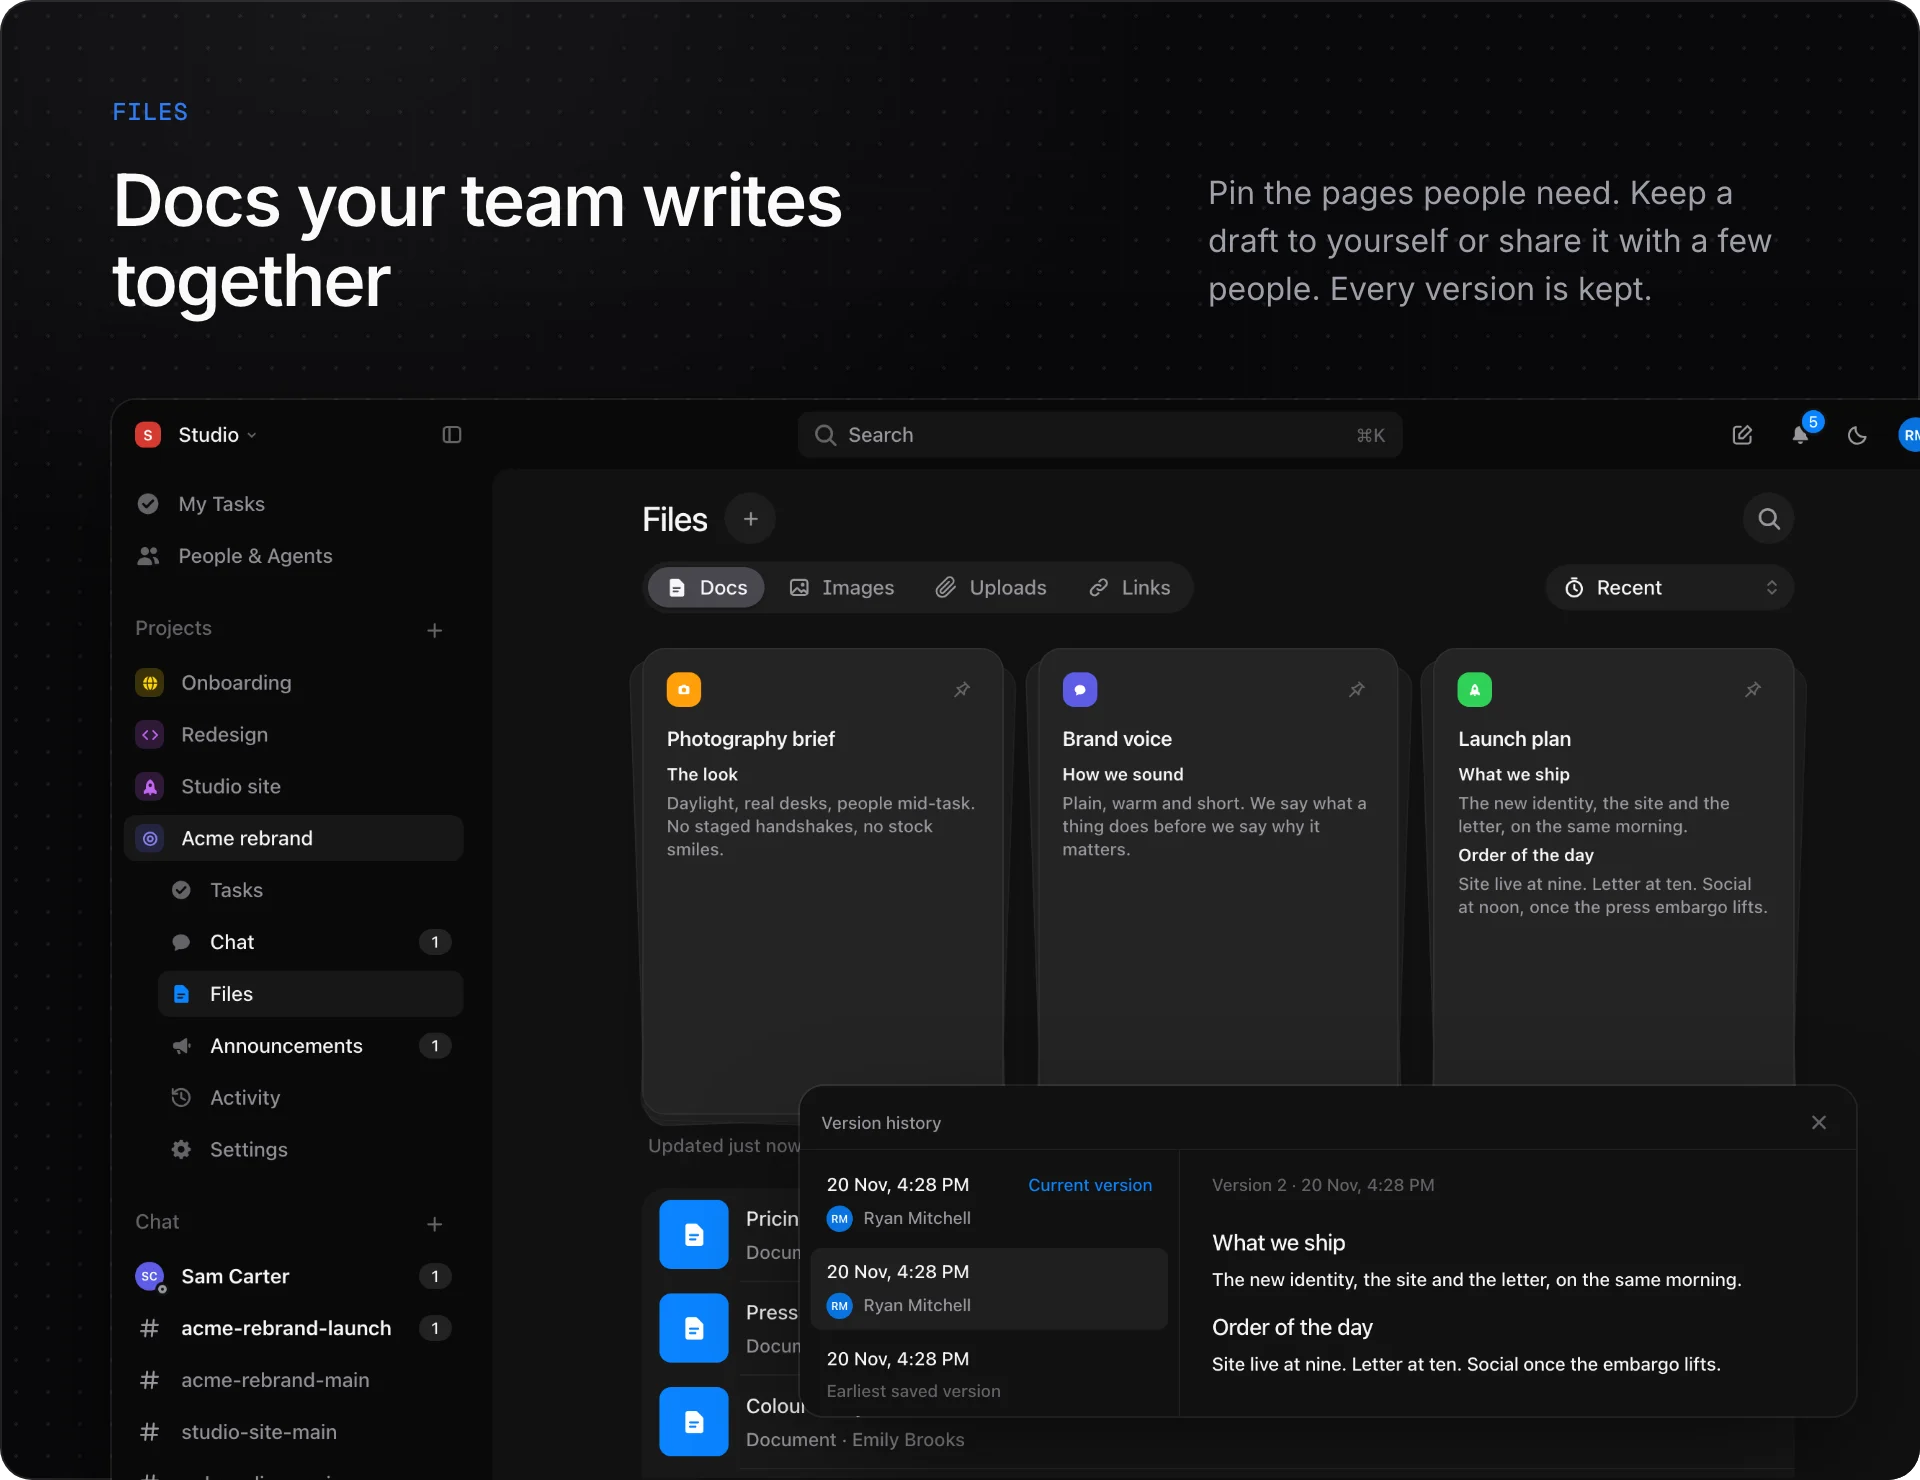
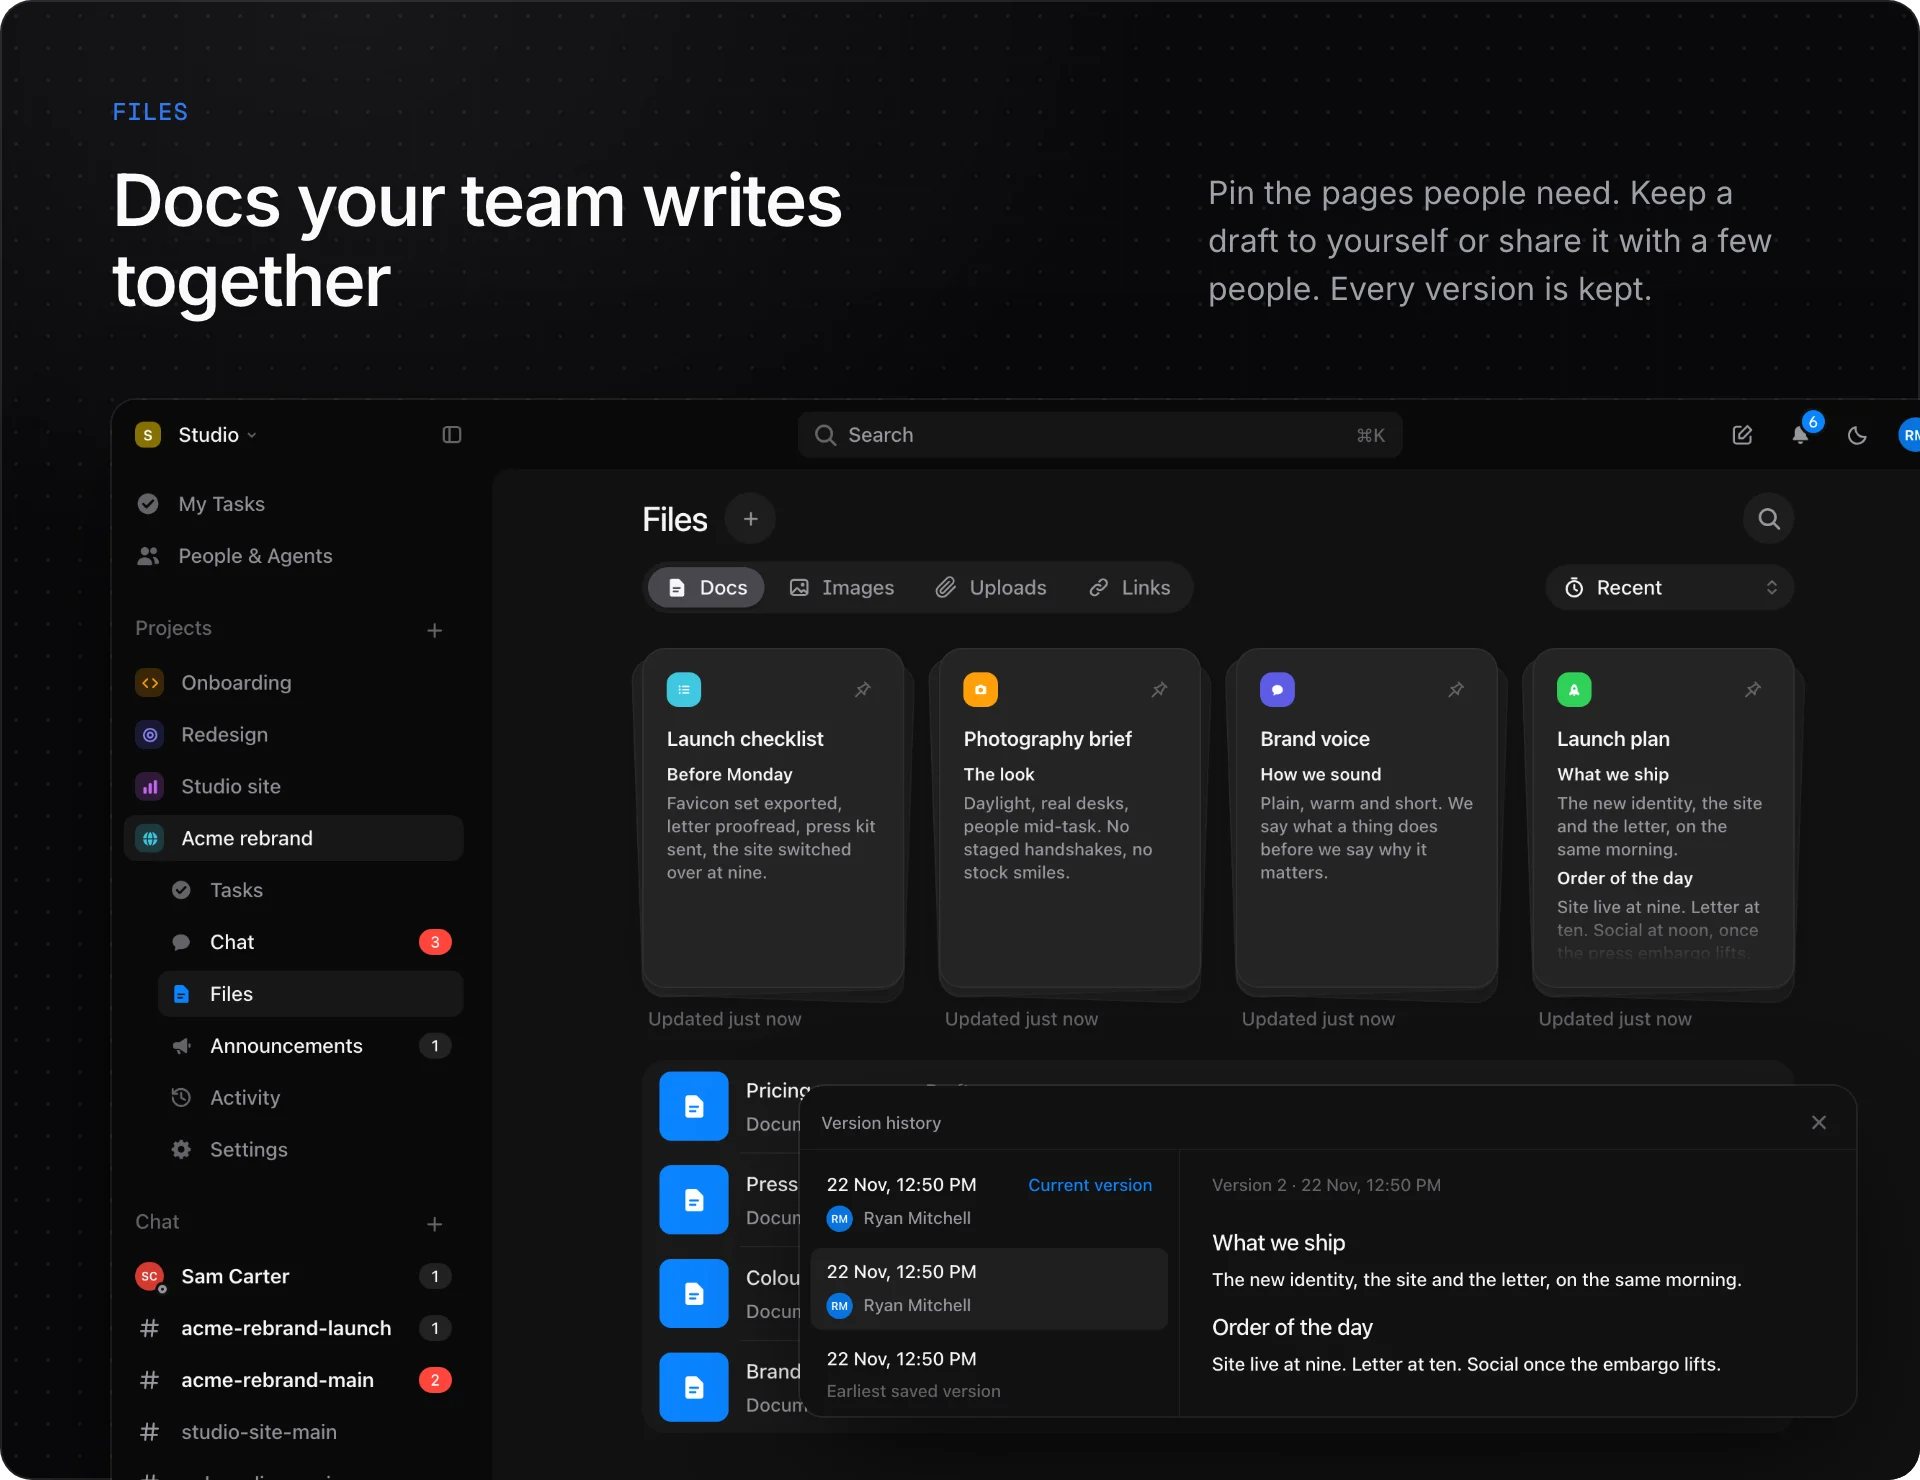
The list-agent errors in French, the chip's line formatted, and the README's and Help's Docs pictures with four pinned pages across
Mirrored-From: 781fa25002168921ca060494a4abbec9d9e3b26a

diff --git a/server/src/words.ts b/server/src/words.ts
@@ -370,6 +370,10 @@ export const ERRORS_FR: Record<string, string> = {
     'Publiez ce document pour toutes les personnes du projet avant de le partager sur le Web.',
   'Only a written document can be kept to some people.': 'Seul un document rédigé peut être réservé à certaines personnes.',
   'Choose people who are on this project.': 'Choisissez des personnes qui font partie de ce projet.',
+  // A list an agent takes.
+  'Choose an agent on this project.': 'Choisissez un agent de ce projet.',
+  'A list that finishes tasks can’t have an agent.': 'Une liste qui termine les tâches ne peut pas avoir d’agent.',
+  'a list is taken only by an agent of its workspace': 'Seul un agent de cet espace de travail peut prendre une liste.',
   'Only a written document holds pictures and files.': 'Seul un document rédigé peut contenir des images et des fichiers.',
   'Only a written document can be a template.': 'Seul un document rédigé peut servir de modèle.',
   'Only a written document has a colour and an icon.': 'Seul un document rédigé a une couleur et une icône.',

diff --git a/web/src/ui/editor/taskChip.tsx b/web/src/ui/editor/taskChip.tsx
@@ -252,7 +252,8 @@ function Chip({ node, editor }: NodeViewProps) {
           >
             {/* The handle and the title's first word kept on one line: a
                 non-breaking space, so "" never ends a line alone. */}
-            <span className="task-chip-handle">{a.making ? W.makingTask : handle}</span>{'\u00a0'}
+            <span className="task-chip-handle">{a.making ? W.makingTask : handle}</span>
+            {'\u00a0'}
             <span className="task-chip-title" data-comment={threads || undefined}>
               {words}
             </span>
